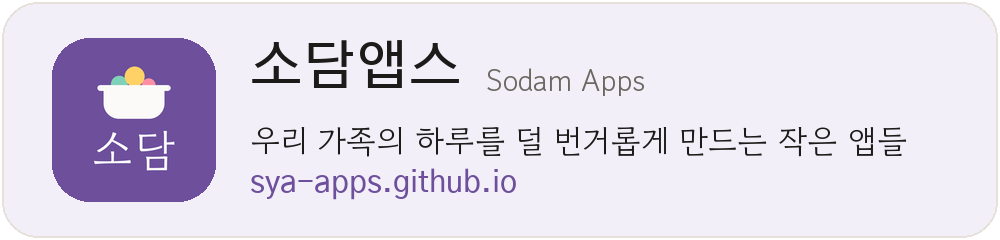
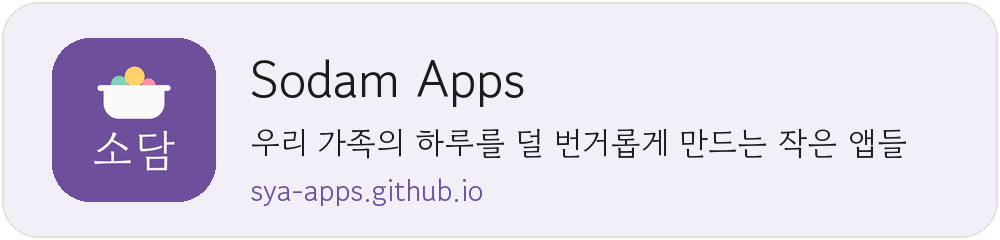
mail: 서명 글씨 고운돋움 하나로 · 한글 «소담앱스» 제목 빼고 Sodam Apps
Claude-Session: https://claude.ai/code/session_019GcHWnQgYZ6e3ZSn9KJkvw

diff --git a/mail/signature.html b/mail/signature.html
@@ -4,7 +4,7 @@
 .box{max-width:560px;margin:0 auto} .sig{background:#fff;border:1px dashed #cfc8dd;border-radius:12px;padding:16px}
 ol{color:#6b6862;font-size:14px;line-height:1.7;padding-left:20px} h1{font-size:18px}</style></head>
 <body><div class="box"><h1>소담앱스 메일 서명</h1>
-<div class="sig" id="sig"><div style="font-family:Arial,'Apple SD Gothic Neo','Malgun Gothic',sans-serif;font-size:13px;line-height:1.6;color:#1c1b19"><p style="margin:0 0 8px">소담앱스 드림</p><a href="https://sya-apps.github.io/" target="_blank"><img src="https://sya-apps.github.io/mail/signature.png" width="500" height="120" alt="소담앱스 · 우리 가족의 하루를 덜 번거롭게 만드는 작은 앱들 · sya-apps.github.io" style="display:block;border:0;width:500px;max-width:100%;height:auto"></a><p style="margin:6px 0 0;color:#6b6862;font-size:12px">우리 가족의 하루를 덜 번거롭게 만드는 작은 앱들을 만들고 있어요 · <a href="https://sya-apps.github.io/" style="color:#6d4f9c" target="_blank">sya-apps.github.io</a></p></div></div>
+<div class="sig" id="sig"><div style="font-family:Arial,'Apple SD Gothic Neo','Malgun Gothic',sans-serif;font-size:13px;line-height:1.6;color:#1c1b19"><p style="margin:0 0 8px">소담앱스 드림</p><a href="https://sya-apps.github.io/" target="_blank"><img src="https://sya-apps.github.io/mail/signature.png" width="500" height="120" alt="Sodam Apps · 우리 가족의 하루를 덜 번거롭게 만드는 작은 앱들 · sya-apps.github.io" style="display:block;border:0;width:500px;max-width:100%;height:auto"></a><p style="margin:6px 0 0;color:#6b6862;font-size:12px">우리 가족의 하루를 덜 번거롭게 만드는 작은 앱들을 만들고 있어요 · <a href="https://sya-apps.github.io/" style="color:#6d4f9c" target="_blank">sya-apps.github.io</a></p></div></div>
 <ol><li>위 점선 안을 마우스로 끌어 전체 선택 → 복사(Ctrl+C)</li>
 <li>Gmail ⚙ → 모든 설정 보기 → 기본설정 → 서명 → 새로 만들기 → 붙여 넣기(Ctrl+V)</li>
 <li>「서명 기본값」 새 이메일용 · 답장/전달용 둘 다 이 서명 → 맨 아래 변경사항 저장</li></ol></div></body></html>
